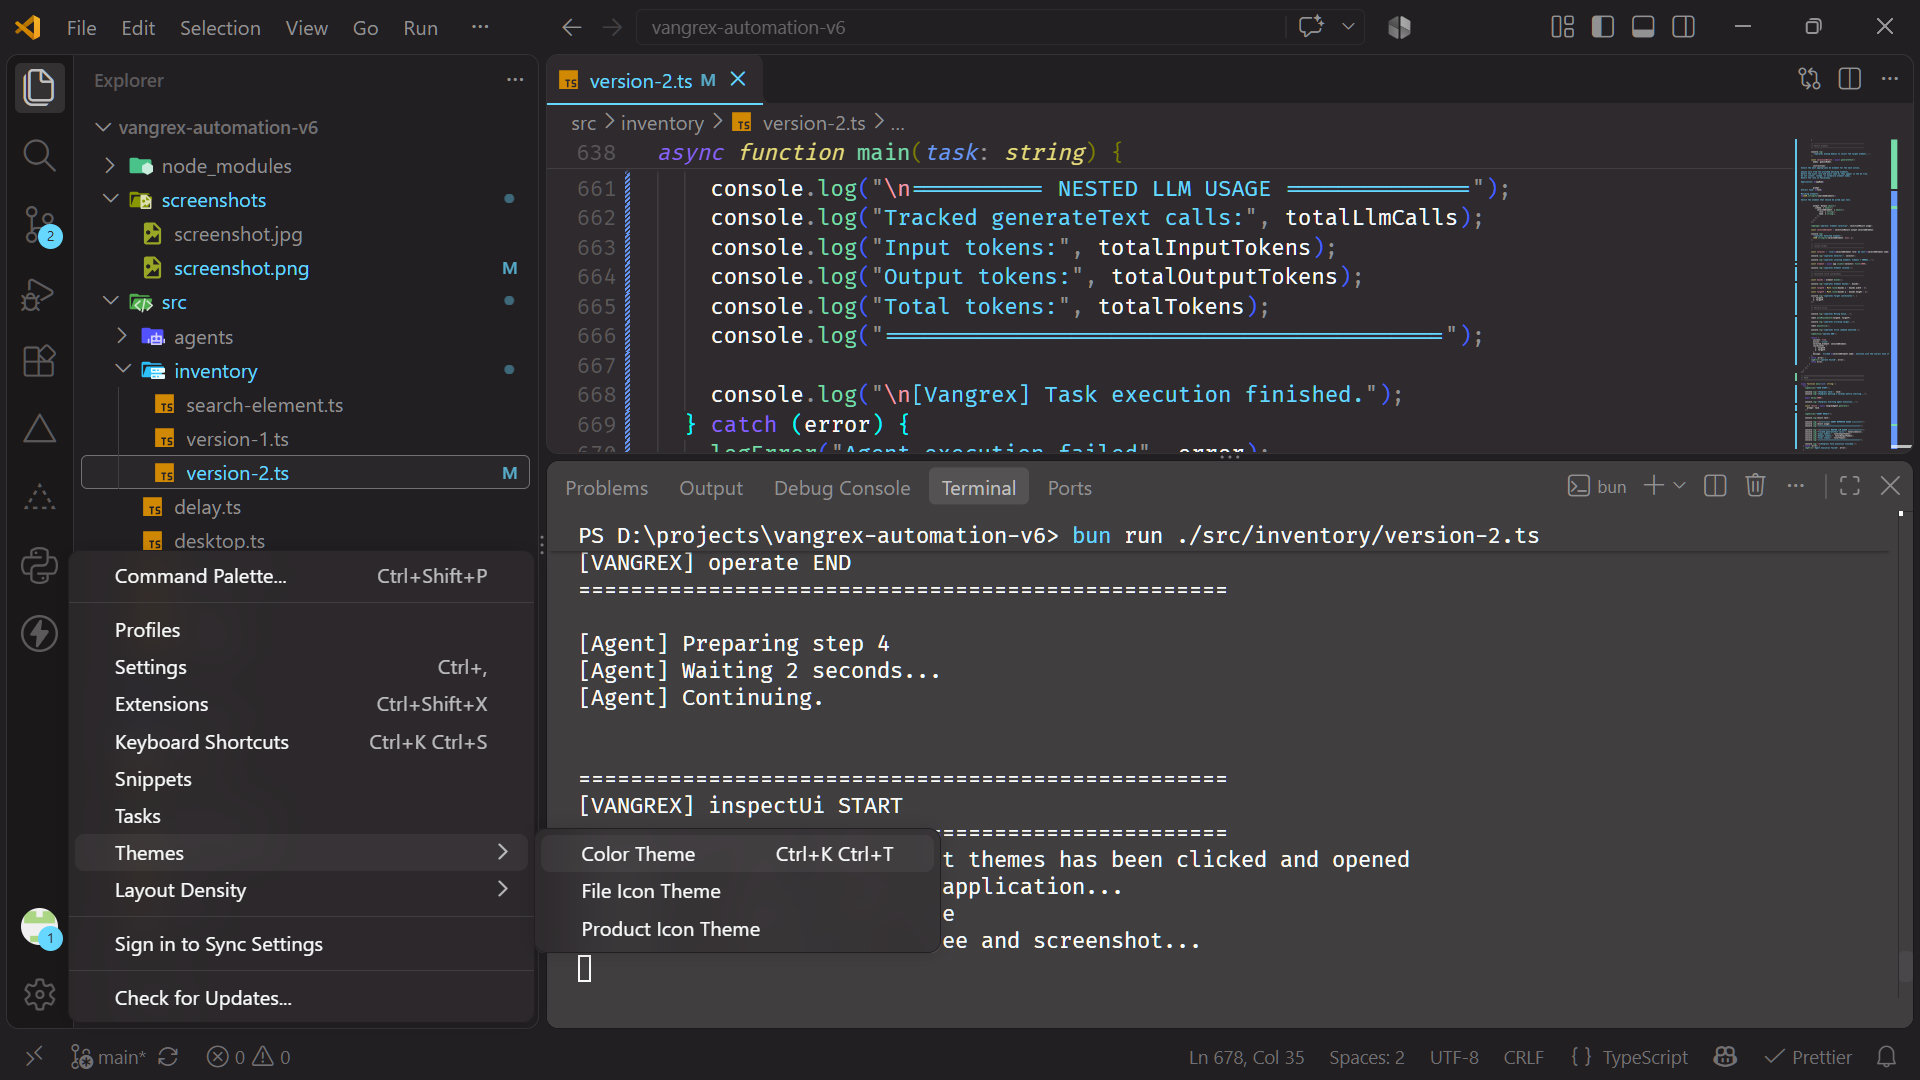
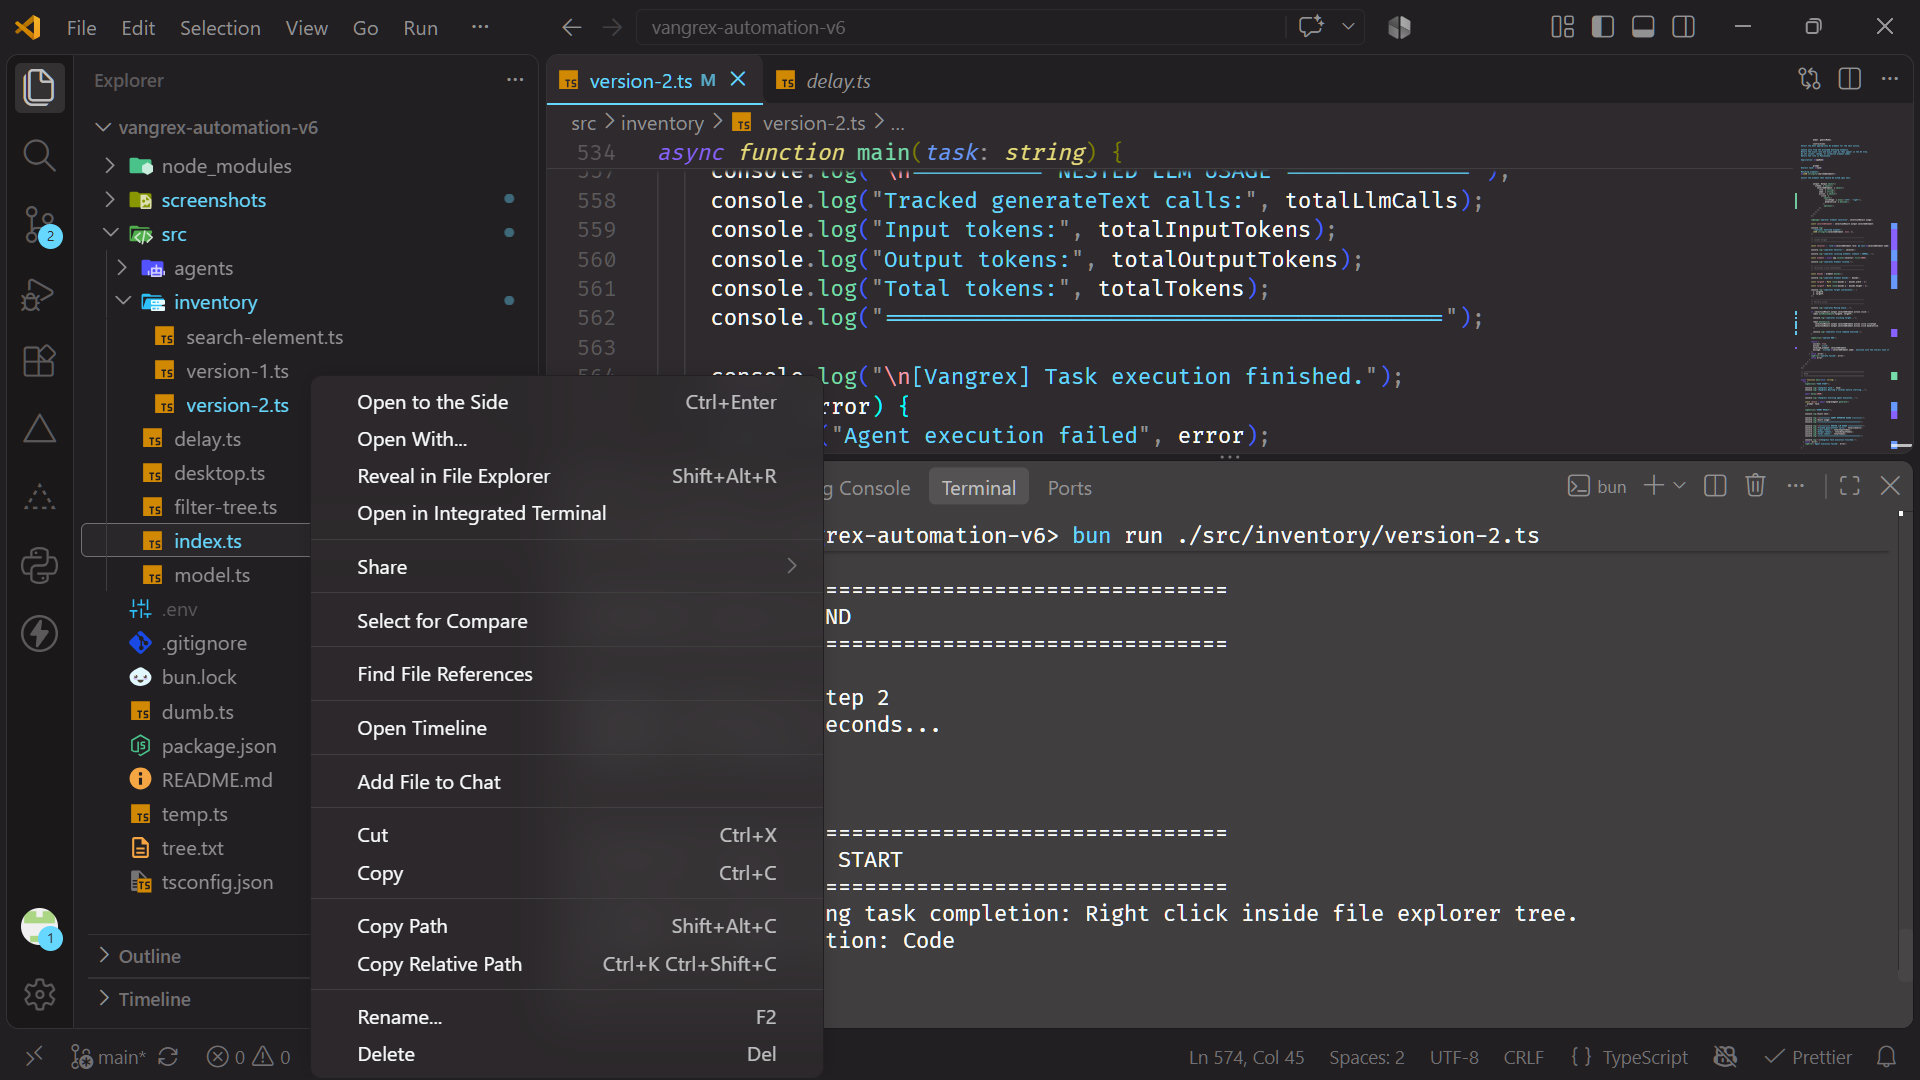
modified:   screenshots/screenshot.png 	modified:   src/inventory/version-2.ts

diff --git a/src/inventory/version-2.ts b/src/inventory/version-2.ts
@@ -163,76 +163,43 @@ STRICT RULES:
 
     inspectUi: tool({
       description:
-        "Inspect the current application UI with a screenshot. Use before starting a task and after performing operations to verify completion.",
+        "Verify whether the user's task has been completed by examining the current application UI and screenshot. Call after performing operations to verify completion. Do not select UI elements.",
 
       inputSchema: z.object({
-        task: z.string().describe("The overall task to perform."),
+        task: z.string().describe("The overall task to verify."),
       }),
 
       execute: async ({ task }) => {
         logSection("inspectUi START");
 
-        console.log("[inspectUi] Task:", task);
+        console.log("[inspectUi] Verifying task completion:", task);
 
         try {
-          // --------------------------------------------------
           // Get current application
-          // --------------------------------------------------
-
-          console.log("[inspectUi] Getting current application...");
-
           const app = await desktop.getCurrentApplication();
           const appName = app.processName();
 
           console.log("[inspectUi] Application:", appName);
 
-          // --------------------------------------------------
           // Capture UI tree and screenshot
-          // --------------------------------------------------
-
-          console.log("[inspectUi] Extracting UI tree and screenshot...");
-
           const tree = desktop.getWindowTreeResult(appName, undefined, {
             propertyMode: Terminator.PropertyLoadingMode.Complete,
-
             formatOutput: true,
-
             treeOutputFormat: Terminator.TreeOutputFormat.ClusteredYaml,
-
             includeMonitorScreenshots: false,
             includeWindowScreenshot: true,
           });
 
-          console.log("[inspectUi] UI tree extracted.");
-
-          console.log("[inspectUi] Tree length:", tree.formatted?.length ?? 0);
-
           console.log(
-            "[inspectUi] Screenshot path:",
-            tree.windowScreenshotPath,
+            "[inspectUi] UI tree length:",
+            tree.formatted?.length ?? 0,
           );
 
-          // --------------------------------------------------
           // Save screenshot
-          // --------------------------------------------------
-
           saveScreenshot(tree.windowScreenshotPath as string);
 
-          // --------------------------------------------------
           // Upload screenshot
-          // --------------------------------------------------
-
-          console.log("[inspectUi] Reading screenshot...");
-
           const screenshotData = fs.readFileSync("screenshots/screenshot.png");
-
-          console.log(
-            "[inspectUi] Screenshot size:",
-            screenshotData.length,
-            "bytes",
-          );
-
-          console.log("[inspectUi] Uploading screenshot...");
 
           const { providerReference } = await uploadFile({
             api: google.files(),
@@ -242,24 +209,25 @@ STRICT RULES:
 
           console.log("[inspectUi] Screenshot uploaded.");
 
-          // --------------------------------------------------
-          // Generate search keywords
-          // --------------------------------------------------
-
-          console.log("[inspectUi] Asking Gemini for relevant UI keywords...");
-
-          const keywordResult = await generateText({
+          // Verify completion directly
+          const result = await generateText({
             model: geminiModel,
 
             instructions: `
-You are a desktop UI analysis assistant.
+You are a desktop UI task verification assistant.
 
-Determine useful UI element keywords for the next action
-needed to accomplish the user's task.
+Determine whether the user's task has already been completed.
 
-Return a short list of relevant keywords.
-Prefer exact visible labels from the application.
-Do not invent elements that are not visible.
+Use the screenshot and UI tree as evidence.
+
+Rules:
+- Return completed=true only when the visible UI provides sufficient evidence that the task is complete.
+- Return completed=false if the task is incomplete, still in progress, or cannot be verified.
+- Do not suggest actions.
+- Do not select UI elements.
+- Do not assume an action succeeded merely because it was requested.
+- Keep the message short and specific.
+- If the evidence is insufficient, explain that completion could not be verified.
 
 Application: ${appName}
 `,
@@ -267,91 +235,17 @@ Application: ${appName}
             messages: [
               {
                 role: "user",
-
                 content: [
                   {
                     type: "text",
-                    text: `Task: ${task}`,
-                  },
-
-                  {
-                    type: "file",
-                    mediaType: "image/png",
-                    data: providerReference,
-                  },
-                ],
-              },
-            ],
-
-            output: Output.object({
-              schema: z.object({
-                keywords: z.array(z.string()),
-              }),
-            }),
-          });
-
-          logUsage("inspectUi: keyword selection", keywordResult.usage);
-
-          const keywords = keywordResult.output.keywords;
-
-          console.log("[inspectUi] Keywords:", keywords);
-
-          // --------------------------------------------------
-          // Search UI tree
-          // --------------------------------------------------
-
-          console.log("[inspectUi] Searching UI tree for matching elements...");
-
-          const searchedElements = findElementInTree(
-            tree.formatted as string,
-            keywords,
-          );
-
-          console.log(
-            "[inspectUi] Matching elements:",
-            JSON.stringify(searchedElements, null, 2),
-          );
-
-          // --------------------------------------------------
-          // Select element
-          // --------------------------------------------------
-
-          console.log("[inspectUi] Asking Gemini to select an element...");
-
-          const selectionResult = await generateText({
-            model: geminiModel,
-
-            instructions: `
-Select the most appropriate UI element for the user's task.
-
-Choose an element from the provided matching elements.
-Return its exact role and exact name.
-Do not invent or modify either value.
-Return the role in PascalCase.
-
-Use the screenshot to resolve ambiguity when necessary.
-
-Application: ${appName}
-`,
-
-            messages: [
-              {
-                role: "user",
-
-                content: [
-                  {
-                    type: "text",
-
                     text: `
-Task: ${task}
+Task to verify:
+${task}
 
-Matching elements:
-${JSON.stringify(searchedElements)}
 
-Select the element that should be acted upon next.
+Check the current state and determine whether the task is complete.
 `,
                   },
-
                   {
                     type: "file",
                     mediaType: "image/png",
@@ -363,27 +257,22 @@ Select the element that should be acted upon next.
 
             output: Output.object({
               schema: z.object({
-                selectedElement: z.object({
-                  role: z.string(),
-                  name: z.string(),
-                }),
+                completed: z.boolean(),
+                message: z.string(),
               }),
             }),
           });
 
-          logUsage("inspectUi: element selection", selectionResult.usage);
+          logUsage("inspectUi: completion verification", result.usage);
 
-          const selectedElement = selectionResult.output.selectedElement;
-
-          console.log(
-            "[inspectUi] Selected element:",
-            JSON.stringify(selectedElement, null, 2),
-          );
+          console.log("[inspectUi] Completed:", result.output.completed);
+          console.log("[inspectUi] Message:", result.output.message);
 
           logSection("inspectUi END");
 
           return {
-            selected_element: selectedElement,
+            completed: result.output.completed,
+            message: result.output.message,
           };
         } catch (error) {
           logError("inspectUi failed", error);
@@ -473,8 +362,6 @@ Application: ${appName}
             prompt: `
 Overall task: ${task}
 
-Current application UI tree:
-${tree.formatted}
 `,
 
             output: Output.object({
@@ -551,6 +438,14 @@ Select the element that should be acted upon next.
                 selectedElement: z.object({
                   role: z.string(),
                   name: z.string(),
+                  action: z.object({
+                    click: z
+                      .object({
+                        clickType: z.enum(["left", "right"]),
+                        doubleClick: z.boolean(),
+                      })
+                      .optional(),
+                  }),
                 }),
               }),
             }),
@@ -602,13 +497,18 @@ Select the element that should be acted upon next.
 
           console.log("[operate] Moving mouse...");
 
-          robot.moveMouseSmooth(targetX, targetY);
+          if (selectionResult.output.selectedElement.action.click) {
+            robot.moveMouseSmooth(targetX, targetY);
 
-          console.log("[operate] Clicking target...");
+            console.log("[operate] Clicking target...");
 
-          robot.mouseClick();
+            robot.mouseClick(
+              selectionResult.output.selectedElement.action.click.clickType,
+              selectionResult.output.selectedElement.action.click.doubleClick,
+            );
 
-          console.log("[operate] Click command executed.");
+            console.log("[operate] Click command executed.");
+          }
 
           logSection("operate END");
 
@@ -616,10 +516,6 @@ Select the element that should be acted upon next.
             success: true,
             action: "click",
             selected_element: selectedElement,
-            coordinates: {
-              x: targetX,
-              y: targetY,
-            },
             message: `Clicked ${selectedElement.name}. Continue with the overall task if more actions are required.`,
           };
         } catch (error) {
@@ -675,4 +571,4 @@ async function main(task: string) {
 // RUN TASK
 // ============================================================
 
-main("Click on manage then themes.");
+main("Right click inside file explorer tree.");
